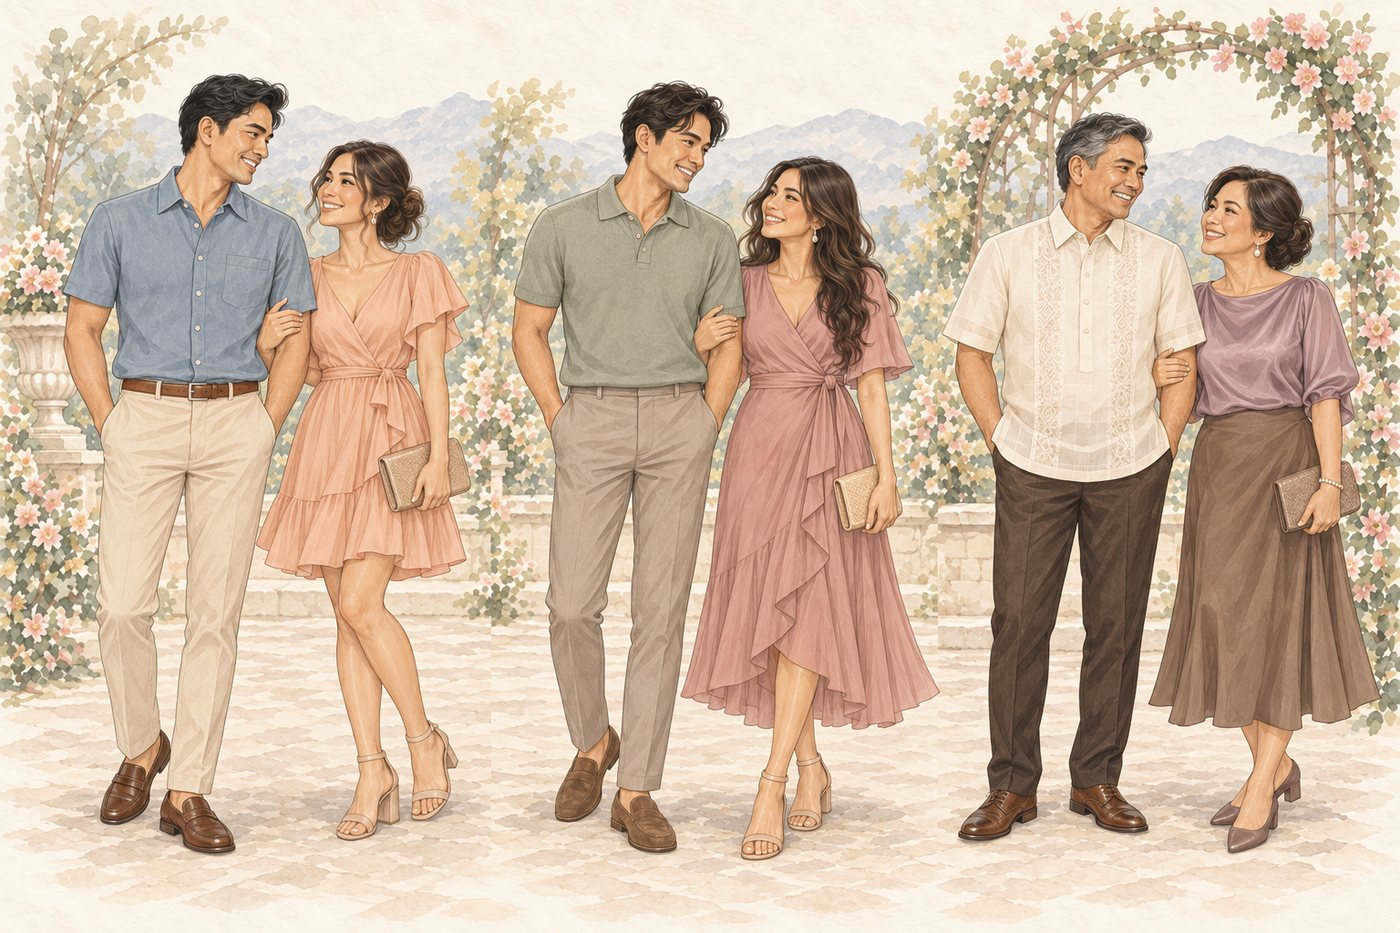
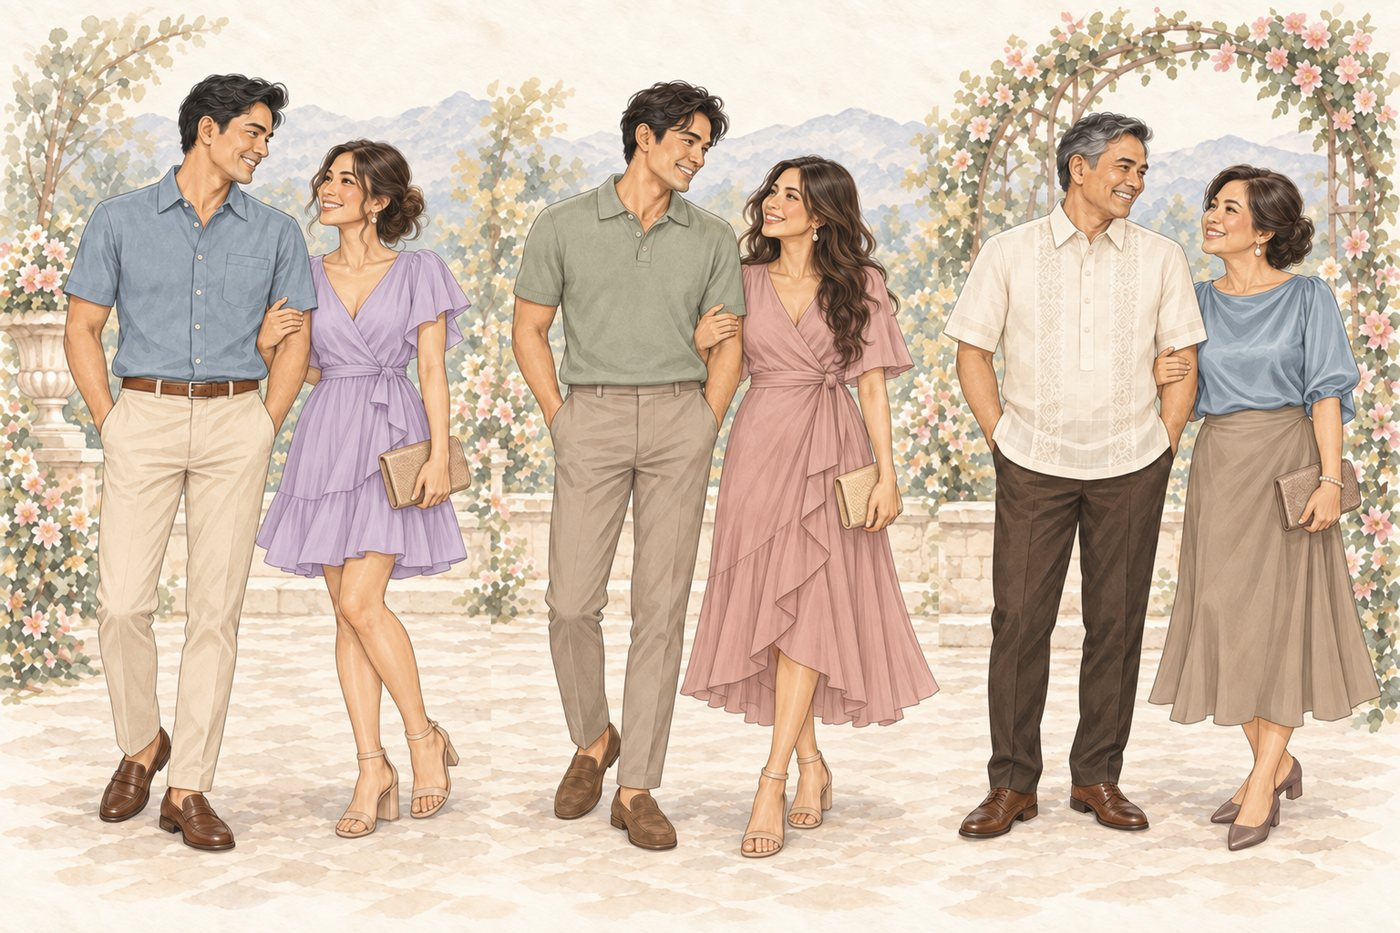
Recolor the guest boards, daytime reception art, theme petals
- What to Wear boards redrawn in only the five suggested colors (dusty
  rose, sage, lavender, dusty blue, taupe), same outfits and poses.
- The Hillcreek exterior is now a sunny midday scene for the lunch.
- Venue names stand out in the day cards; murals are gone (Hillcreek has
  wood-beamed ceilings), and the chapel to Hillcreek drive reads about
  30 minutes with traffic.
- Falling petals use the motif: ivory, seafoam, teal, dusty blue, gold.
- The style guide records all of it, plus Good to Know and the FAQ.

diff --git a/design/style-guide.html b/design/style-guide.html
@@ -585,7 +585,7 @@
           <li><strong>Colors:</strong> about 65–70% ivory, cream, and warm-white flowers · 20–25% soft greenery · 5–10% dusty-blue accents · a touch of champagne. Teal lives in linens and ribbons, never in the flowers.</li>
           <li><strong>Couple backdrop:</strong> gets the strongest floral budget: ivory and white blooms with greenery and dusty-blue accents.</li>
           <li><strong>Tables:</strong> ivory linens, ocean-teal runners and napkins, gold-rimmed chargers, gold votives.</li>
-          <li><strong>Foyer:</strong> mostly ivory and green, since the mural already brings the blue-teal.</li>
+          <li><strong>Foyer:</strong> mostly ivory and green, light and welcoming.</li>
           <li><strong>Garden booths (cocktail hour):</strong> light, matching ivory-and-green accents only.</li>
           <li><strong>Room:</strong> no ceiling treatment or draping; warm-white light only, no colored uplighting.</li>
         </ul>
@@ -967,16 +967,19 @@
       <div class="card">
         <h3>What guests see today</h3>
         <ul class="tight">
-          <li><strong>Live:</strong> the date and countdown, schedule, venues and map, <strong>What to Wear</strong>, and <strong>Entourage Colors</strong> (published Sep 2026)</li>
+          <li><strong>Live:</strong> the teal hero and countdown, the day's schedule, venues and map, <strong>Good to Know</strong>, <strong>What to Wear</strong>, and <strong>Entourage Colors</strong> (Sep 2026)</li>
           <li><strong>Ready, switched off:</strong> RSVP, until invitations go out</li>
-          <li><strong>Hidden:</strong> the motif and flowers section (written for planning, not guests), the teal hero art, and the gown portraits</li>
+          <li><strong>Hidden:</strong> the motif and flowers section (written for planning, not guests) and the gown portraits with the hashtag</li>
           <li><strong>Coming Soon:</strong> only RSVP. Only things guests act on get a card.</li>
         </ul>
       </div>
       <div class="card">
         <h3>How the site talks to guests</h3>
         <ul class="tight">
-          <li><strong>Pictures over paragraphs.</strong> Sample-outfit boards do the explaining; text stays to a line or two.</li>
+          <li><strong>Pictures over paragraphs.</strong> Sample-outfit boards and the journey illustration do the explaining; text stays to a line or two.</li>
+          <li><strong>Key facts in bold</strong>, and a soft gold highlighter for the must-knows only: <em>10:30 AM</em>, <em>no suits or gowns needed</em>, <em>monetary gift</em>.</li>
+          <li><strong>No em dashes</strong> in any copy, so it reads like the couple wrote it.</li>
+          <li><strong>Accurate to the venues:</strong> Hillcreek has wood-beamed ceilings and arched windows (no murals); the chapel to Hillcreek is about 30 minutes with traffic; the reception art shows daytime, since it's a lunch.</li>
           <li><strong>Only show how to dress</strong>, with no "don't wear this" examples.</li>
           <li><strong>No guest count</strong> on the site. The Company card reads "With all our love".</li>
           <li><strong>RSVP stays on the main page</strong>, at the bottom, not on a separate page. Links to …/rsvp/ redirect there.</li>
@@ -988,8 +991,8 @@
         <h3>What to Wear, as published</h3>
         <ul class="tight">
           <li>One line: "Come looking your best: polished and put-together, but no suits or gowns needed."</li>
-          <li>Three watercolor boards: <strong>Ladies</strong> (five outfits, dresses and separates), <strong>Gentlemen</strong> (polo, linen shirt, barong, rolled sleeves with sneakers), and <strong>Guest looks</strong> (three well-dressed couples of different ages)</li>
-          <li>Five suggested colors, marked optional; one firm ask: no white, ivory, cream, or champagne</li>
+          <li>Three watercolor boards, all in the five suggested colors: <strong>Ladies</strong> (sage wrap dress, dusty-blue blouse with taupe trousers, lavender dress, dusty-rose jumpsuit, lavender blouse with taupe skirt), <strong>Gentlemen</strong> (dusty-blue polo, sage linen shirt with taupe trousers, ecru barong, dusty-blue shirt with taupe chinos and sneakers), and <strong>Guest looks</strong> (three couples of different ages)</li>
+          <li>Five suggested colors (dusty rose, sage, lavender, dusty blue, taupe), marked optional; one firm ask: no white, ivory, cream, or champagne</li>
         </ul>
       </div>
       <div class="card">
@@ -1002,6 +1005,30 @@
         </ul>
       </div>
     </div>
+    <div class="two-col" style="margin-top:1.2rem;">
+      <div class="card">
+        <h3>Good to Know, as published</h3>
+        <ul class="tight">
+          <li><strong>Getting there:</strong> a watercolor journey (Manila, the expressway, the chapel, Hillcreek) with four steps: allow 2–3 hours from Manila on a Saturday; SLEX, then CALAX or the Sta. Rosa exit; be seated by 10:30 AM; lunch about 30 minutes from the chapel</li>
+          <li><strong>Weather:</strong> usually cool in February, but the 2026–27 El Niño may bring a warmer, sunnier day. Breathable fabrics, and a light wrap for the breezy morning</li>
+          <li><strong>Gifts:</strong> "Celebrating with you is the greatest gift. Should you wish to bless us further, a monetary gift toward our first home would be received with so much gratitude."</li>
+          <li><strong>Getting around:</strong> Tagaytay is small, taxis are easy to find, and both venues are in town</li>
+        </ul>
+      </div>
+      <div class="card">
+        <h3>The FAQ</h3>
+        <ul class="tight">
+          <li><strong>Plus-ones:</strong> reception seating is limited to the seats reserved; companions can enjoy Tagaytay or the hotel; ask in the RSVP for an extra seat</li>
+          <li><strong>Kids:</strong> welcome; if restless, step outside with them for a moment so the program carries on</li>
+          <li><strong>Photos:</strong> of course, just mind the photographers and don't block their view or the aisle</li>
+          <li><strong>Hashtag:</strong> #NewBeginNINSWithLeo (may still change)</li>
+          <li><strong>RSVP:</strong> "Soon", until invitations go out; then "by January 6, 2027"</li>
+          <li><strong>Stay:</strong> Hillcreek or a nearby Airbnb</li>
+        </ul>
+        <p class="note">Falling petals on the site use the motif: ivory, seafoam, ocean teal, dusty blue, and a little gold.</p>
+      </div>
+    </div>
+
     <div class="card">
       <h3>Privacy</h3>
       <p class="note">
@@ -1042,7 +1069,8 @@
       <li>Confirm with the coordinator whether an additional LED wall is needed, then add it to the Artuz booking</li>
       <li><strong>Choose the food:</strong> the reception lunch menu (still open)</li>
       <li class="done">Hashtag chosen: #NewBeginNINSWithLeo, with #HappeNINSWithLeo and #MorNINSWithLeo</li>
-      <li>Website ideas, not yet started: getting there and Saturday Tagaytay traffic (aim to arrive by 10:30), a "bring a light wrap" weather line, a gifts note, and a short FAQ (kids, plus-ones, unplugged ceremony, hashtag)</li>
+      <li class="done">Good to Know published: the journey from Manila, El Niño weather, gift note, getting around, and FAQ</li>
+      <li>Confirm parking at both venues with the coordinator, then add it to Good to Know</li>
       <li>Decide whether this style guide stays in the public repository or becomes local-only</li>
     </ul>
   </section>

diff --git a/src/components/Venues.jsx b/src/components/Venues.jsx
@@ -43,7 +43,7 @@ export default function Venues() {
           <div className="pic">
             <img
               src={receptionImg}
-              alt="Watercolor illustration of the Hillcreek Gardens reception hall with teal mural walls"
+              alt="Watercolor illustration of the Hillcreek Gardens reception hall"
               loading="lazy"
             />
           </div>
@@ -51,8 +51,8 @@ export default function Venues() {
             <p className="detail-when">Reception · Lunch</p>
             <h3>Hillcreek Gardens Tagaytay</h3>
             <p>
-              A garden estate of arched windows, painted murals, and chandeliers, <strong>ten minutes from
-              the chapel</strong>. Lunch, toasts, and dancing follow the ceremony.
+              A garden estate of arched windows, wood-beamed ceilings, and chandeliers,{' '}
+              <strong>about 30 minutes from the chapel</strong>. Lunch, toasts, and dancing follow the ceremony.
             </p>
             <a
               className="btn"
@@ -81,7 +81,7 @@ export default function Venues() {
             </span>
           </div>
           <p className="board-caption">
-            From “I do” to the first dance: 8.6 km, about 13 minutes of scenic drive
+            From “I do” to the first dance: 8.6 km, about 30 minutes with traffic
           </p>
         </Reveal>
 

diff --git a/src/components/Details.jsx b/src/components/Details.jsx
@@ -15,9 +15,8 @@ export default function Details() {
             <p className="detail-when">Eleven o'clock</p>
             <h3>The Ceremony</h3>
             <p className="detail-where">
-              Chapel on the Hill
-              <br />
-              Tagaytay City
+              <strong>Chapel on the Hill</strong>
+              <span className="detail-city">Tagaytay City</span>
             </p>
             <p className="detail-note">
               Kindly be seated by <mark>10:30 AM</mark>. The chapel doors open to morning mist and
@@ -28,13 +27,11 @@ export default function Details() {
             <p className="detail-when">Lunch to follow</p>
             <h3>The Reception</h3>
             <p className="detail-where">
-              Hillcreek Gardens
-              <br />
-              Tagaytay City
+              <strong>Hillcreek Gardens</strong>
+              <span className="detail-city">Tagaytay City</span>
             </p>
             <p className="detail-note">
-              A <strong>garden lunch</strong> among the murals and arched windows, with music by
-              Acsions.
+              A garden lunch among the arched windows and chandeliers, with music by Acsions.
             </p>
           </Reveal>
           <Reveal className="detail-card" delay={3}>

diff --git a/src/components/Attire.jsx b/src/components/Attire.jsx
@@ -23,7 +23,7 @@ export default function Attire({ motif }) {
           <Reveal className="attire-board" delay={1}>
             <img
               src={ladiesImg}
-              alt="Watercolor style board: five women in a knee-length dress, blouse with trousers, tea-length dress, jumpsuit, and blouse with midi skirt"
+              alt="Watercolor style board: five women in sage, dusty blue with taupe, lavender, dusty rose, and lavender with taupe: a knee-length dress, blouse with trousers, tea-length dress, jumpsuit, and blouse with midi skirt"
               loading="lazy"
             />
             <p className="board-caption">Ladies</p>
@@ -31,7 +31,7 @@ export default function Attire({ motif }) {
           <Reveal className="attire-board" delay={2}>
             <img
               src={gentsImg}
-              alt="Watercolor style board: four men in a knit polo with chinos, linen shirt, short-sleeve barong, and rolled-sleeve shirt with sneakers"
+              alt="Watercolor style board: four men in a dusty-blue polo with chinos, sage linen shirt with taupe trousers, short-sleeve barong, and dusty-blue shirt with taupe chinos and sneakers"
               loading="lazy"
             />
             <p className="board-caption">Gentlemen</p>

diff --git a/src/App.jsx b/src/App.jsx
@@ -15,18 +15,15 @@ import { MOTIFS } from './theme.js'
 import { ANNOUNCED } from './siteConfig.js'
 
 /* Motif locked July 2026: Ocean Teal. The base palette lives in index.css;
-   MOTIFS.teal supplies the art, guest palette, florals, and copy. Until
-   ANNOUNCED.theme is true the hero and petals stay neutral so the motif
-   isn't revealed early. */
+   MOTIFS.teal supplies the art, guest palette, florals, and copy. The petals
+   use the motif colors now that the entourage colors are public; the hero
+   still waits for ANNOUNCED.theme. */
 const motif = MOTIFS.teal
-
-/* Ivory and gold only — no hint of the motif. */
-const NEUTRAL_PETALS = ['rgba(233,223,201,0.75)', 'rgba(220,205,175,0.55)', 'rgba(185,155,95,0.35)']
 
 export default function App() {
   return (
     <>
-      <Petals colors={ANNOUNCED.theme ? motif.petals : NEUTRAL_PETALS} />
+      <Petals colors={motif.petals} />
       <Nav />
       <Hero motif={ANNOUNCED.theme ? motif : null} />
       <Details />

diff --git a/src/theme.js b/src/theme.js
@@ -75,7 +75,14 @@ export const MOTIFS = {
       ],
       note: 'True teal blooms don’t exist in nature, so flowers stay ivory with dusty-blue accents, and the teal itself lives in ribbons, table runners, candles, and stationery.',
     },
-    petals: ['rgba(147,186,180,0.55)', 'rgba(233,223,201,0.75)', 'rgba(38,93,100,0.30)', 'rgba(185,155,95,0.35)'],
+    /* Ivory, seafoam, ocean teal, dusty-blue hydrangea, and a little gold. */
+    petals: [
+      'rgba(233,223,201,0.8)',
+      'rgba(147,186,180,0.6)',
+      'rgba(69,126,124,0.4)',
+      'rgba(145,163,176,0.5)',
+      'rgba(185,155,95,0.35)',
+    ],
   },
   maroon: {
     key: 'maroon',

diff --git a/src/components/GoodToKnow.jsx b/src/components/GoodToKnow.jsx
@@ -9,7 +9,7 @@ const STEPS = [
   { title: 'Leave early', text: <>From Manila, allow <strong>2–3 hours</strong> on a Saturday.</> },
   { title: 'Head up SLEX', text: <>Then <strong>CALAX</strong> or the <strong>Sta. Rosa exit</strong> to Tagaytay.</> },
   { title: 'Chapel on the Hill', text: <>Kindly be seated by <mark>10:30 AM</mark>.</> },
-  { title: 'Hillcreek Gardens', text: <>Lunch follows <strong>right after the ceremony</strong>.</> },
+  { title: 'Hillcreek Gardens', text: <>Lunch follows, <strong>about 30 minutes</strong> from the chapel.</> },
 ]
 
 const FAQ = [

diff --git a/src/index.css b/src/index.css
@@ -390,6 +390,19 @@ h2 {
 .detail-card .detail-where {
   color: var(--ink);
 }
+.detail-card .detail-where strong {
+  display: block;
+  font-size: 1.08rem;
+}
+.detail-city {
+  display: block;
+  margin-top: 0.1rem;
+  font-family: var(--utility);
+  font-size: 0.68rem;
+  letter-spacing: 0.2em;
+  text-transform: uppercase;
+  color: var(--ink-soft);
+}
 .detail-card .detail-note {
   margin-top: 0.9rem;
   max-width: 30ch;
